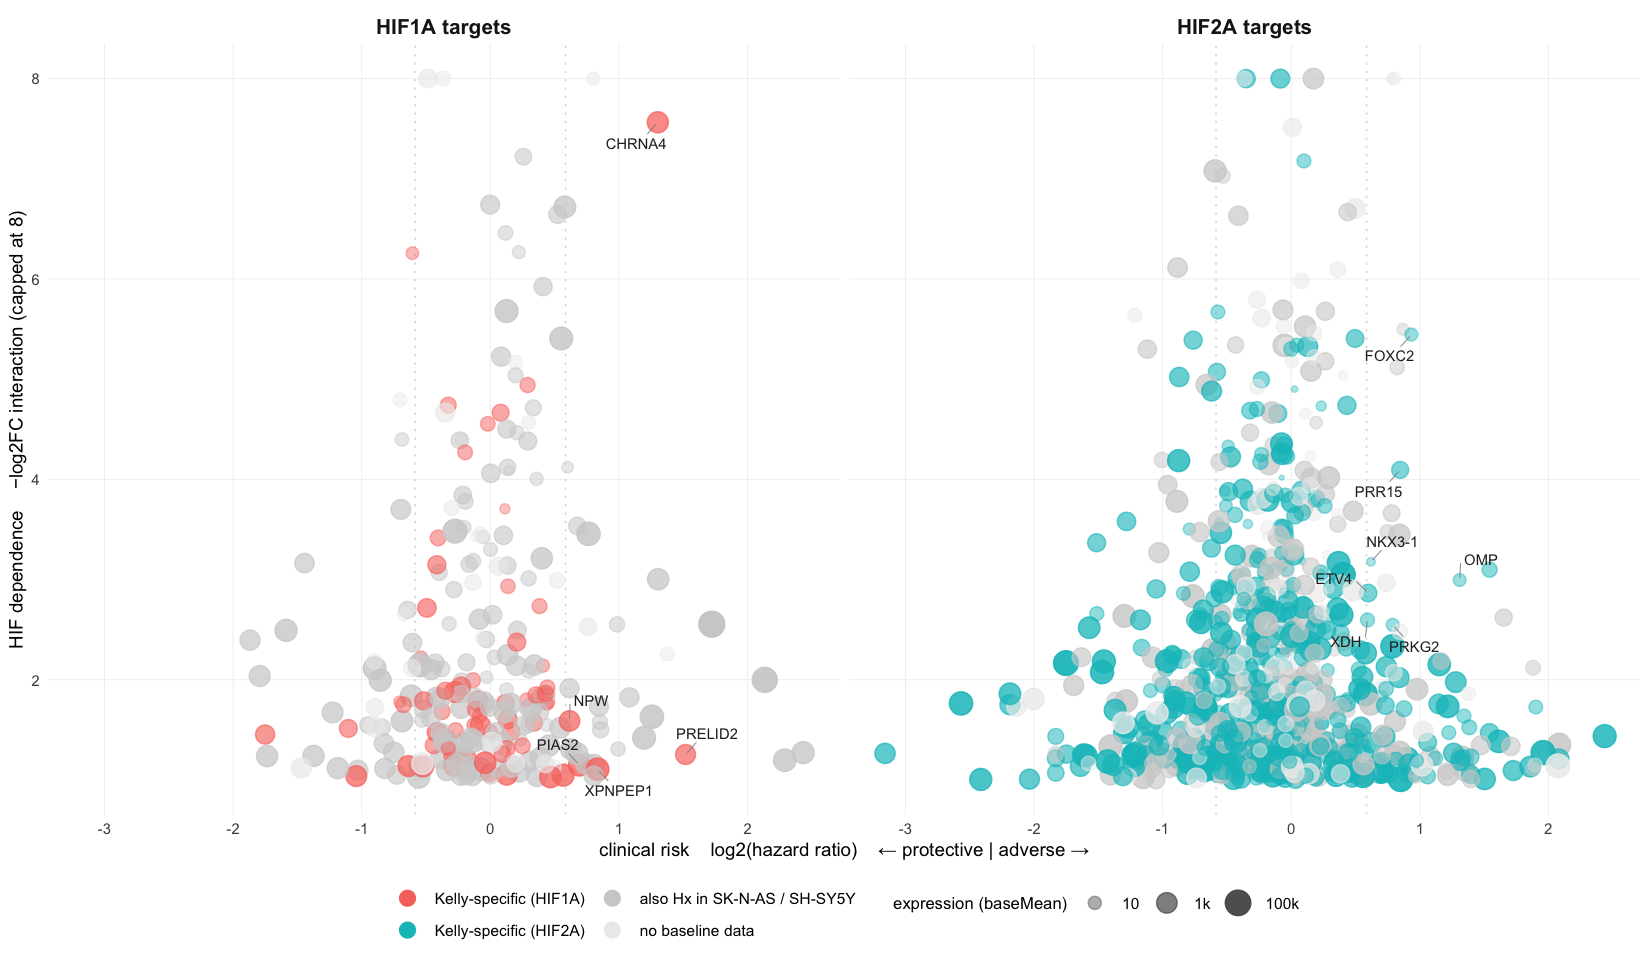
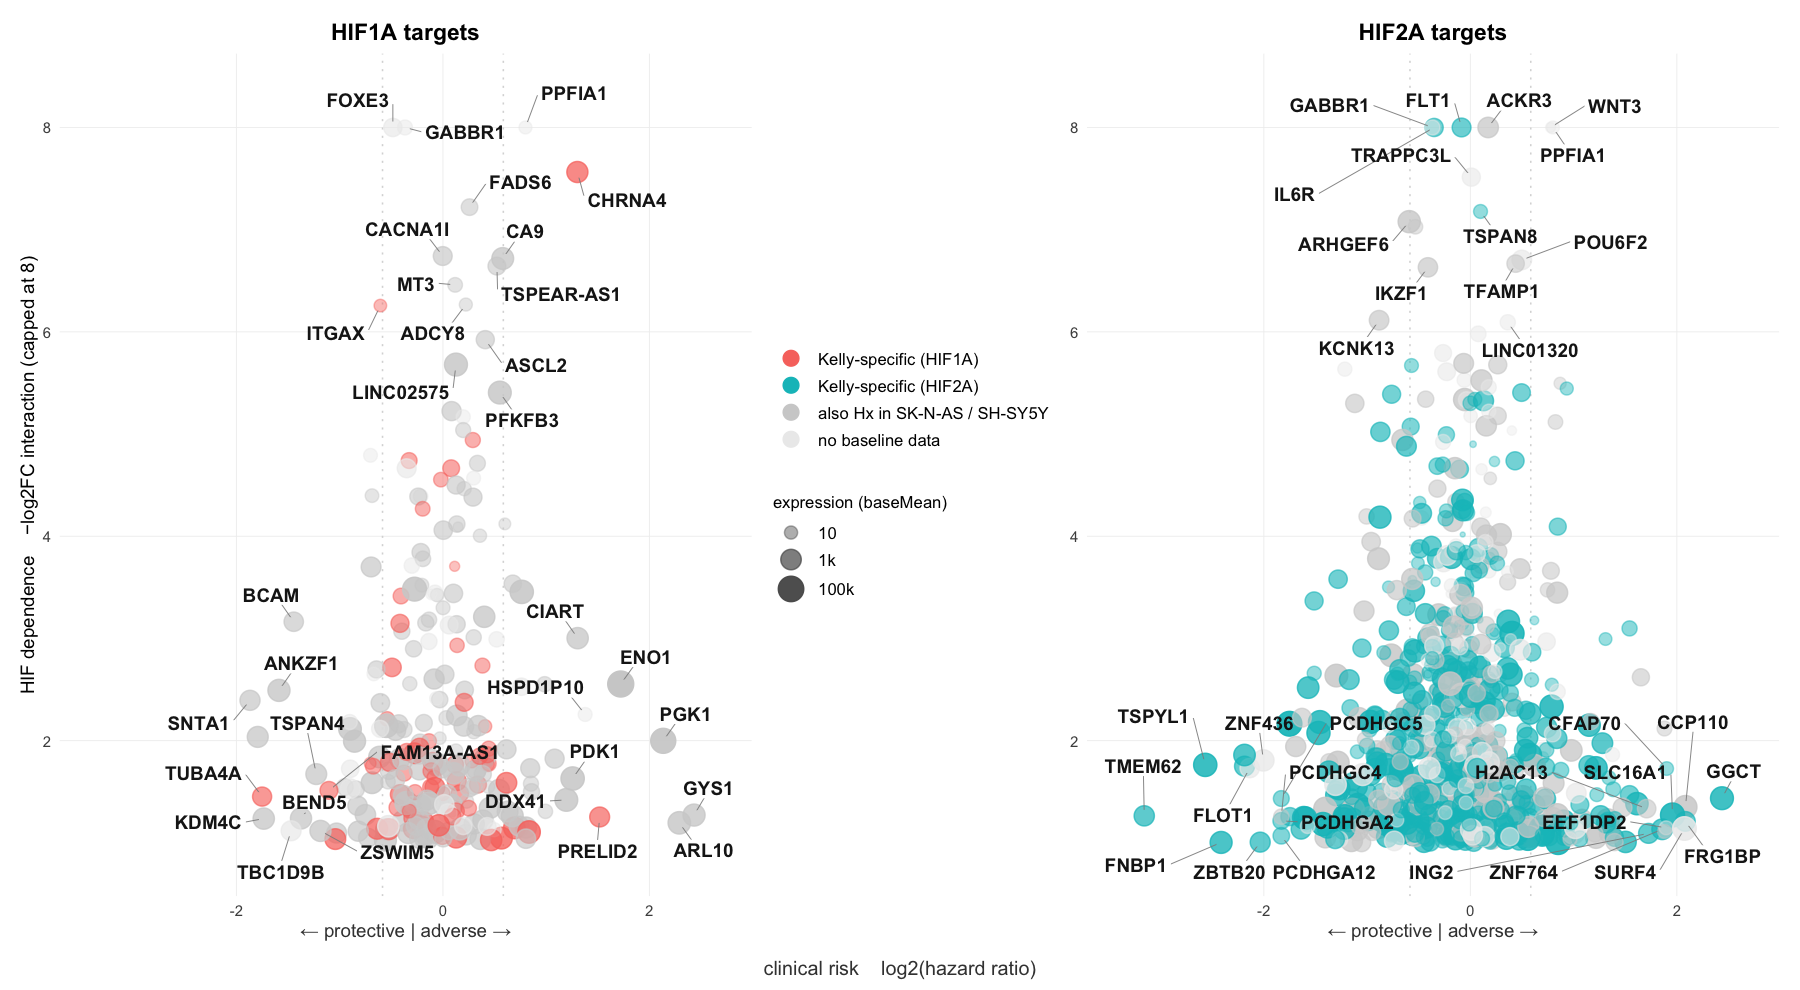
Relayout the risk plot: centre legend, label the periphery
Labels now mark the extremes on both axes - highest HIF dependence and
both ends of the hazard ratio - in whatever category they fall, rather
than only the Kelly-specific ones. Bold and a point larger, with more
repel iterations and a little axis padding so they stop colliding.

Layout moves from facets back to patchwork so the legend can sit in the
middle column between the two panels, stacked vertically. That needs the
two colour legends to be recognised as identical, which they were not:
each panel holds only three of the four classes, so the missing key made
the legends differ and patchwork stacked both, one of them with blank
glyphs. An invisible layer carrying all four levels in every panel fixes
it.

The protective/adverse arrows now sit under each panel as its x-axis
label, with "clinical risk log2(hazard ratio)" once, centred under the
whole figure.

diff --git a/6_XM_data_merge/Dive.md b/6_XM_data_merge/Dive.md
@@ -25,6 +25,7 @@ library(tidyverse)
 library(knitr)
 library(ggplot2)
 library(ggrepel)
+library(patchwork)
 library(openxlsx)
 ```
 
@@ -299,41 +300,77 @@ pdat <- dplyr::bind_rows(
 pdat$cls   <- factor(pdat$cls, levels = names(COL))
 pdat$panel <- factor(pdat$panel, levels = c("HIF1A targets", "HIF2A targets"))
 
-lab <- pdat %>% dplyr::filter(kelly, log2HR > log2(1.5)) %>%
-  dplyr::group_by(panel) %>% dplyr::arrange(dplyr::desc(dep)) %>%
-  dplyr::slice_head(n = 8) %>% dplyr::ungroup()
+# Label the periphery: the extremes on either axis, whatever category they fall
+# into. Those are the genes the plot exists to surface.
+edge_labels <- function(d, n_dep = 14, n_hr = 10) {
+  d <- d[!is.na(d$symbol), ]
+  d[unique(c(head(order(-d$dep), n_dep),
+             head(order(-d$log2HR), n_hr),
+             head(order(d$log2HR), n_hr))), ]
+}
+lab <- dplyr::bind_rows(lapply(split(pdat, pdat$panel), edge_labels))
 
 # Size and alpha both carry expression; identical name/breaks/labels make ggplot
 # merge them into a single legend instead of showing the same variable twice.
 expr_breaks <- log10(c(10, 1000, 100000) + 1)
 expr_labels <- c("10", "1k", "100k")
+xr <- range(pdat$log2HR); yr <- range(pdat$dep)
 
-ggplot(pdat, aes(log2HR, dep)) +
-  geom_vline(xintercept = c(log2(1 / 1.5), log2(1.5)), colour = "grey85",
-             linetype = "dotted", linewidth = 0.35) +
-  geom_point(aes(colour = cls, size = expr, alpha = expr)) +
-  ggrepel::geom_text_repel(data = lab, aes(label = symbol), size = 2.5,
-                           colour = "grey15", box.padding = 0.45, max.overlaps = 40,
-                           segment.size = 0.2, segment.colour = "grey55",
-                           min.segment.length = 0) +
-  facet_wrap(~panel) +
-  scale_colour_manual(values = COL, name = NULL, guide = guide_legend(
-    order = 1, ncol = 2, override.aes = list(size = 3.2, alpha = 1))) +
-  scale_size_continuous(range = c(0.8, 5.5), name = "expression (baseMean)",
-    breaks = expr_breaks, labels = expr_labels,
-    guide = guide_legend(order = 2, override.aes = list(colour = "grey35"))) +
-  scale_alpha_continuous(range = c(0.35, 1), name = "expression (baseMean)",
-    breaks = expr_breaks, labels = expr_labels,
-    guide = guide_legend(order = 2, override.aes = list(colour = "grey35"))) +
-  labs(x = "clinical risk    log2(hazard ratio)    ← protective | adverse →",
-       y = sprintf("HIF dependence    −log2FC interaction (capped at %d)", y_cap)) +
-  theme_minimal(base_size = 9) +
-  theme(panel.grid.minor = element_blank(),
-        panel.grid.major = element_line(linewidth = 0.2, colour = "grey94"),
-        strip.text = element_text(face = "bold", size = 10),
-        legend.position = "bottom", legend.box = "horizontal",
-        legend.key.height = unit(0.75, "lines"),
-        legend.title = element_text(size = 8), legend.text = element_text(size = 7.5))
+# Each panel only contains three of the four classes, so its colour legend would
+# miss a key and the two legends would not be recognised as identical - patchwork
+# then stacks both instead of collecting them. This invisible layer carries all
+# four levels in every panel, making the legends match exactly.
+legend_dummy <- data.frame(log2HR = NA_real_, dep = NA_real_, expr = NA_real_,
+                           cls = factor(names(COL), levels = names(COL)))
+
+mk <- function(d, ptitle, show_y) {
+  ggplot(d, aes(log2HR, dep)) +
+    geom_vline(xintercept = c(log2(1 / 1.5), log2(1.5)), colour = "grey85",
+               linetype = "dotted", linewidth = 0.35) +
+    geom_point(aes(colour = cls, size = expr, alpha = expr),
+               show.legend = c(colour = FALSE, size = TRUE, alpha = TRUE)) +
+    geom_point(data = legend_dummy, aes(colour = cls), size = 3.2, alpha = 1,
+               na.rm = TRUE) +
+    ggrepel::geom_text_repel(data = dplyr::filter(lab, panel == d$panel[1]),
+                             aes(label = symbol), size = 3.2, fontface = "bold",
+                             colour = "grey10", box.padding = 0.6,
+                             point.padding = 0.2, max.overlaps = Inf,
+                             max.time = 2, max.iter = 20000, segment.size = 0.2,
+                             segment.colour = "grey55", min.segment.length = 0) +
+    # limits = names(COL) keeps the scale identical in both panels, which is what
+    # lets patchwork collect the two legends into one.
+    scale_colour_manual(values = COL, limits = names(COL), drop = FALSE, name = NULL,
+      guide = guide_legend(order = 1, ncol = 1,
+                           override.aes = list(size = 3.2, alpha = 1))) +
+    scale_size_continuous(range = c(0.8, 5.5), name = "expression (baseMean)",
+      breaks = expr_breaks, labels = expr_labels, limits = range(pdat$expr),
+      guide = guide_legend(order = 2, ncol = 1, override.aes = list(colour = "grey35"))) +
+    scale_alpha_continuous(range = c(0.35, 1), name = "expression (baseMean)",
+      breaks = expr_breaks, labels = expr_labels, limits = range(pdat$expr),
+      guide = guide_legend(order = 2, ncol = 1, override.aes = list(colour = "grey35"))) +
+    coord_cartesian(xlim = xr + c(-0.25, 0.25), ylim = yr + c(-0.15, 0.35)) +
+    labs(title = ptitle, x = "← protective | adverse →",
+         y = if (show_y) sprintf("HIF dependence    −log2FC interaction (capped at %d)",
+                                 y_cap) else NULL) +
+    theme_minimal(base_size = 9) +
+    theme(panel.grid.minor = element_blank(),
+          panel.grid.major = element_line(linewidth = 0.2, colour = "grey94"),
+          plot.title = element_text(face = "bold", size = 11, hjust = 0.5),
+          axis.title.x = element_text(size = 9, colour = "grey25"),
+          legend.key.height = unit(0.9, "lines"),
+          legend.title = element_text(size = 8), legend.text = element_text(size = 8))
+}
+
+p1 <- mk(dplyr::filter(pdat, panel == "HIF1A targets"), "HIF1A targets", TRUE)
+p2 <- mk(dplyr::filter(pdat, panel == "HIF2A targets"), "HIF2A targets", FALSE)
+
+(p1 + patchwork::guide_area() + p2 +
+   patchwork::plot_layout(guides = "collect", widths = c(1, 0.4, 1))) +
+  patchwork::plot_annotation(caption = "clinical risk    log2(hazard ratio)") &
+  theme(legend.box = "vertical", legend.direction = "vertical",
+        legend.justification = "center",
+        plot.caption = element_text(hjust = 0.5, size = 9.5, colour = "grey25",
+                                    margin = margin(t = 4)))
 ```
 
 </details>
